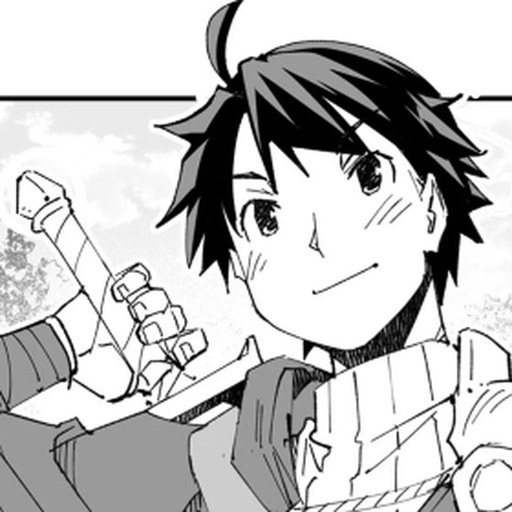
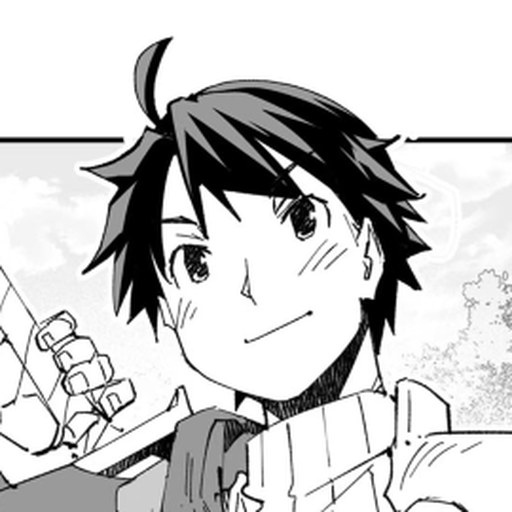
Reframe seven Netori character portraits

diff --git a/docs/superpowers/plans/2026-11-19-netori-portrait-recrop.md b/docs/superpowers/plans/2026-11-19-netori-portrait-recrop.md
@@ -1,0 +1,39 @@
+# Netori Portrait Re-crop Implementation Plan
+
+> **For agentic workers:** REQUIRED SUB-SKILL: Use superpowers:subagent-driven-development (recommended) or superpowers:executing-plans to implement this plan task-by-task. Steps use checkbox (`- [ ]`) syntax for tracking.
+
+**Goal:** Improve the framing of the seven existing Netori character portraits in both square and circular views.
+
+**Architecture:** Replace only the seven existing JPEG derivatives and document their exact source rectangles. Web and mobile continue to use their existing avatar paths and renderers.
+
+**Tech Stack:** Python with Pillow for image preparation and validation; the existing Node reader tests for asset and roster checks.
+
+**Spec:** [Netori portrait re-crop](../specs/2026-11-19-netori-portrait-recrop-design.md)
+
+## Global Constraints
+
+Keep all seven existing paths, the 512×512 JPEG format and the original color or monochrome treatment. Do not regenerate the art, edit the source illustrations, change the cover or banner, or touch the novel text or reader UI.
+
+## Review Focus
+
+- Charlotte’s face must not hug the right edge in the circle; review the before-and-after at avatar size.
+- Keep the manga panel out of Shinji’s portrait where possible without cropping the face; review at full resolution.
+- Circle corners can clip hair even when a square looks good; compare all seven at 52 px and 144 px.
+- A square crop extending beyond the source silently introduces padding; assert bounds before exporting.
+- Replacing a JPEG under the wrong name gives the wrong character the portrait; compare source and output labels and run the roster test.
+
+### Task 1: Replace and verify the seven portrait assets
+
+**Files:**
+- Modify: `reader-web/public/illustrations/char_netori_{agane,alvin,charlotte,ferry,miris,renka,shinji}.jpg`
+- Modify: `novels_source/netori-mahoutsukai-no-bouken/visual-assets.md`
+- Run unchanged: `reader-web/tests/netori-skeleton.test.mjs`
+
+**Interfaces:** Use the existing source filename per portrait from `visual-assets.md`; publish at the same avatar paths listed in the roster.
+
+- [ ] Make a labeled baseline sheet from all seven existing JPEGs, with square and round views at 52 px and 144 px. Confirm the existing off-center Charlotte crop and panel clutter in Shinji's image.
+- [ ] Inspect the four full source illustrations and choose a square rectangle around each face. Assert `0 <= left < right <= width`, `0 <= top < bottom <= height`, and `right - left == bottom - top` for each Pillow crop. Export to a temporary directory as RGB JPEGs at 512×512 using Lanczos and quality 88.
+- [ ] Make an equivalent candidate sheet. Match each portrait to the documented source character and check face position, hair, chin and neighboring artwork. Compare Shinji at 512 px as well. Adjust any failed frame before replacing its JPEG.
+- [ ] Replace the seven files at their current paths. Record the exact `(left, top, right, bottom)` rectangles in `visual-assets.md`, noting any source-limited framing. Decode all seven files with Pillow and assert JPEG format and `(512, 512)` dimensions.
+- [ ] Run `node --test tests/netori-skeleton.test.mjs` from `reader-web`; expect four passing tests, including roster parity, assets and cover integrity. Run `git diff --check` and confirm the changed paths are limited to the seven JPEGs and task documentation.
+- [ ] Commit only the portrait assets and their task documentation; push the current branch following `AGENTS.md`.

diff --git a/novels_source/netori-mahoutsukai-no-bouken/visual-assets.md b/novels_source/netori-mahoutsukai-no-bouken/visual-assets.md
@@ -26,19 +26,21 @@ The cover is copied byte-for-byte from the registered chapter 0 illustration.
 | --- | --- | --- | --- |
 | `netori_cover.jpg` | `illust_02.jpg` | full, unchanged | 1061×1500 |
 | `netori_banner.jpg` | `illust_02.jpg` | `(0, 0, 1061, 597)` | 1280×720 |
-| `char_netori_shinji.jpg` | `illust_01.png` | `(440, 290, 648, 498)` | 512×512 |
-| `char_netori_alvin.jpg` | `illust_01.png` | `(180, 20, 460, 300)` | 512×512 |
-| `char_netori_renka.jpg` | `illust_02.jpg` | `(30, 260, 590, 820)` | 512×512 |
-| `char_netori_charlotte.jpg` | `illust_02.jpg` | `(450, 0, 900, 450)` | 512×512 |
-| `char_netori_miris.jpg` | `illust_03.jpg` | `(541, 165, 1061, 685)` | 512×512 |
-| `char_netori_agane.jpg` | `illust_03.jpg` | `(185, 0, 635, 450)` | 512×512 |
-| `char_netori_ferry.jpg` | `illust_04.jpg` | `(150, 0, 590, 440)` | 512×512 |
+| `char_netori_shinji.jpg` | `illust_01.png` | `(420, 326, 646, 552)` | 512×512 |
+| `char_netori_alvin.jpg` | `illust_01.png` | `(222, 0, 492, 270)` | 512×512 |
+| `char_netori_renka.jpg` | `illust_02.jpg` | `(10, 280, 560, 830)` | 512×512 |
+| `char_netori_charlotte.jpg` | `illust_02.jpg` | `(583, 24, 923, 364)` | 512×512 |
+| `char_netori_miris.jpg` | `illust_03.jpg` | `(525, 203, 1045, 723)` | 512×512 |
+| `char_netori_agane.jpg` | `illust_03.jpg` | `(110, 0, 610, 500)` | 512×512 |
+| `char_netori_ferry.jpg` | `illust_04.jpg` | `(258, 0, 718, 460)` | 512×512 |
 
 `illust_01.png` is a black-and-white manga character page; the two portraits keep that
 original monochrome treatment. `illust_02.jpg`–`illust_04.jpg` are the official colour
 volume covers used as chapter 0 character plates. Crops frame each head and shoulders
 and exclude publisher logos, author credits, page numbers and neighbouring characters
-where the source layout allows it.
+where the source layout allows it. The portraits were checked as squares and
+circles at reader sizes. Some panel lines remain in the monochrome portraits:
+cropping them out completely would cut into the characters' hair.
 
 ## Original-image SHA-256
 

diff --git a/docs/superpowers/specs/2026-11-19-netori-portrait-recrop-design.md b/docs/superpowers/specs/2026-11-19-netori-portrait-recrop-design.md
@@ -1,0 +1,10 @@
+# Netori portrait re-crop
+
+Re-crop the seven existing main-character portraits so faces are centered and hair and chins have room inside the circular avatar, as far as the official artwork allows. Review the same images as squares and as small circles. Charlotte's off-center face and the stray manga panel around Shinji are the clearest issues in the current set.
+
+## Approaches
+
+- Re-crop the full official illustrations: approved. This can recover space already cut off in the current JPEGs without changing the artwork or the UI.
+- Reposition the existing JPEGs in the UI: cannot recover missing pixels and would require separate web and mobile changes.
+
+Keep all seven existing paths, the 512×512 JPEG format and the original color or monochrome treatment. Do not regenerate the art, edit the source illustrations, change the cover or banner, or touch the novel text or reader UI. Record the new crop coordinates in `visual-assets.md`.
